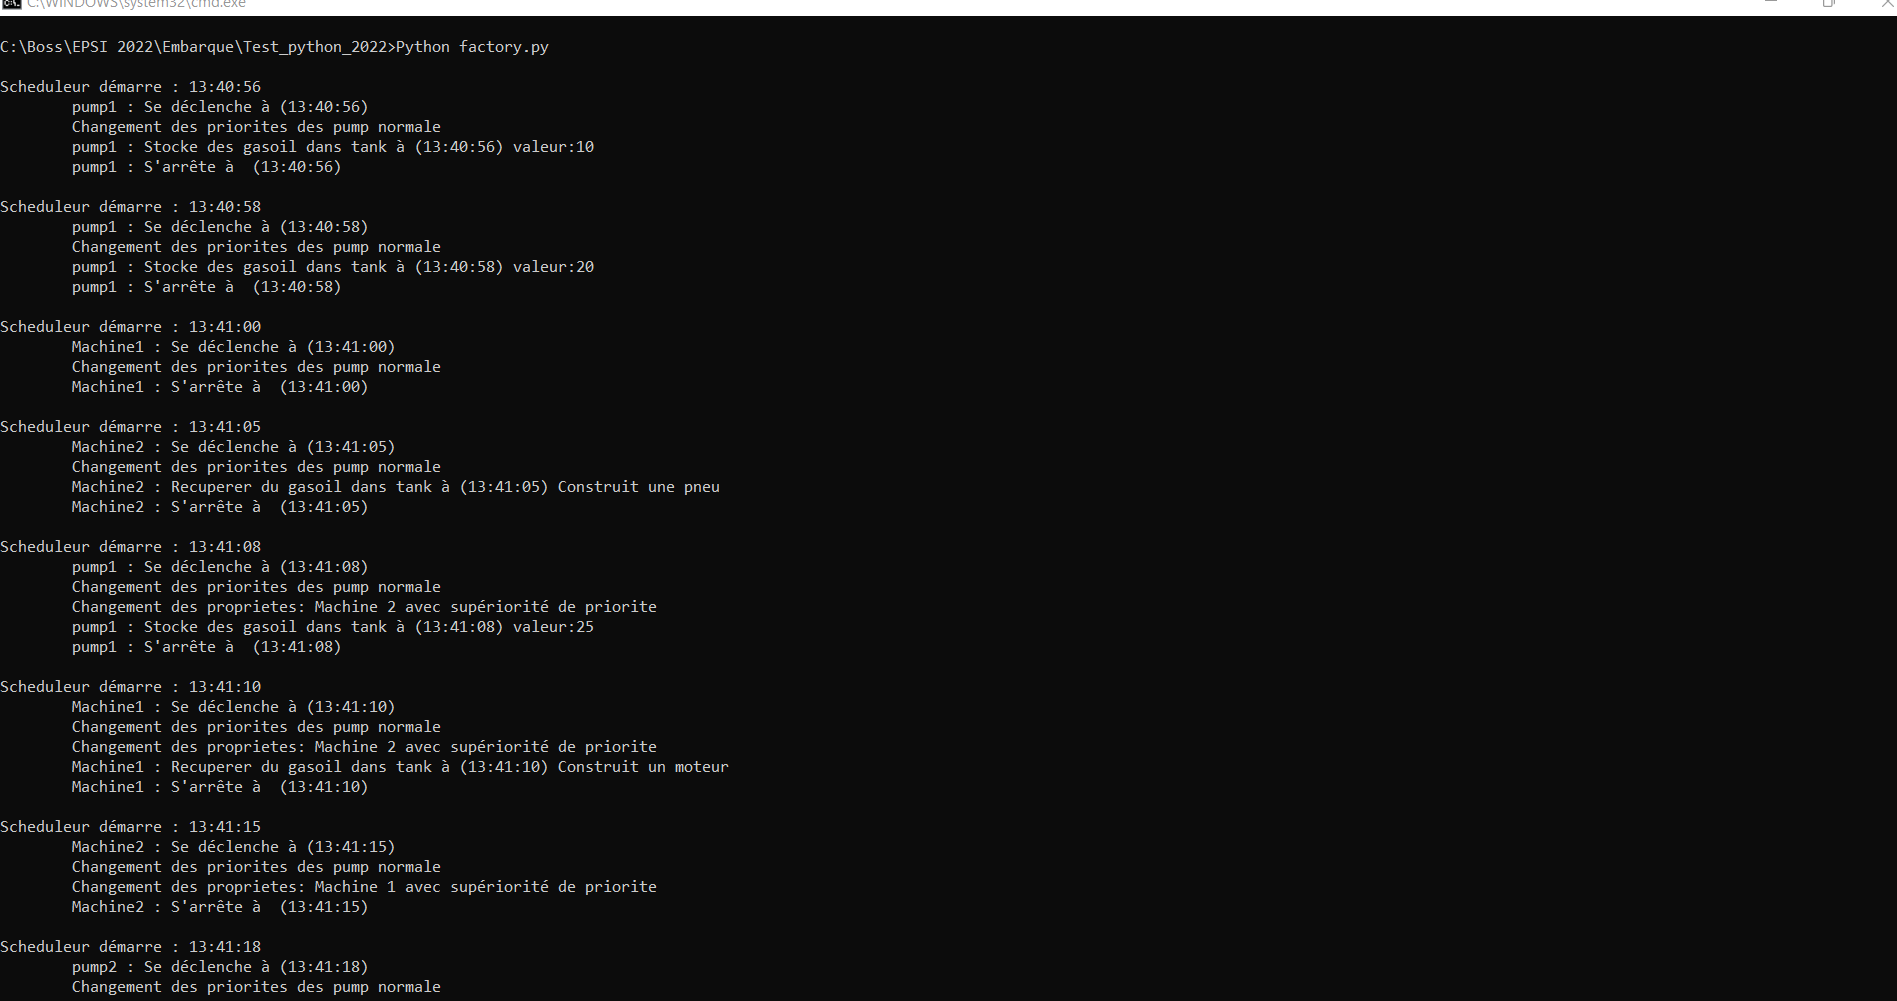
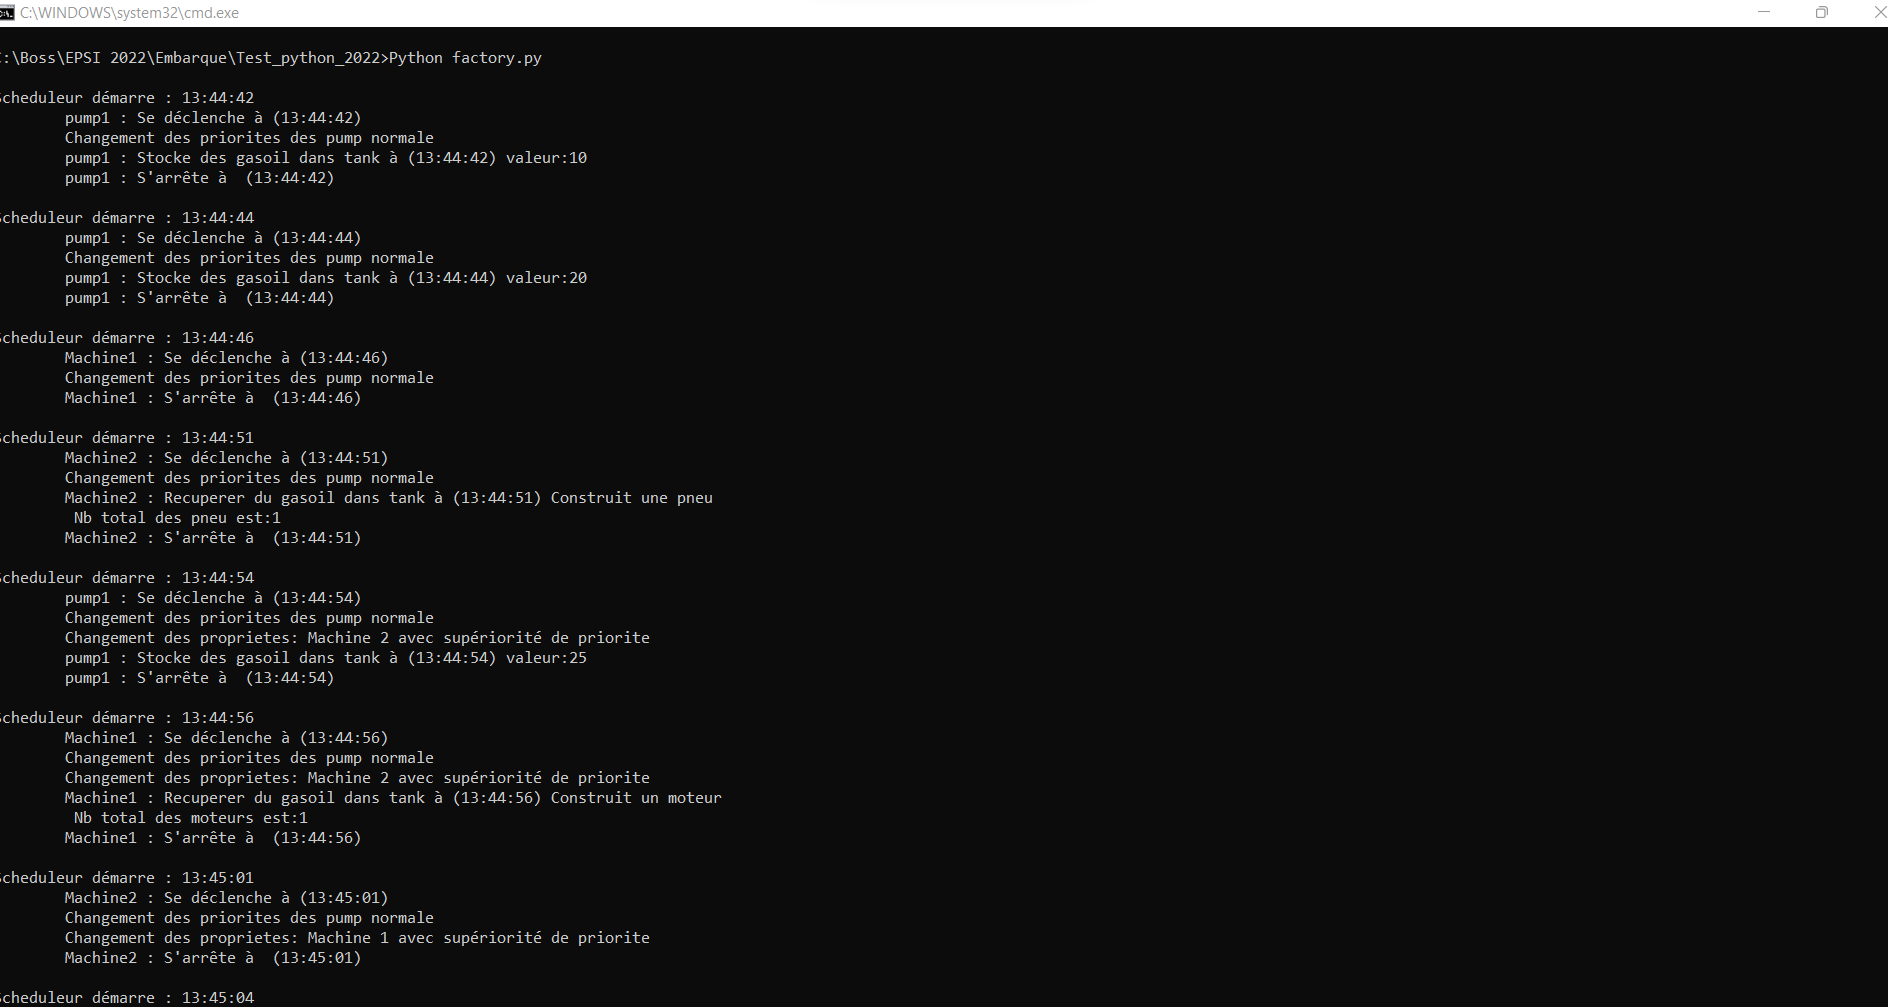
MAJ

Changed region(s): [[0.0, 0.0, 1.0, 1.0]]

diff --git a/factory.py b/factory.py
@@ -51,6 +51,7 @@ def recuperer_gasoil(task_name, fifo_name, date_register_data, fifo_variable):
                 print("\t" + task_name + " : Recuperer du gasoil dans "+ fifo_name +" à (" + date_register_data + ") Construit un moteur")
                 change_value_tank(fifo_variable,gasoil_in_tank)
                 global_stock_motors.append(1)
+                print("\t Nb total des moteurs est:" + str(sum(global_stock_motors)))
 
             
         else:
@@ -60,6 +61,7 @@ def recuperer_gasoil(task_name, fifo_name, date_register_data, fifo_variable):
                 print("\t" + task_name + " : Recuperer du gasoil dans "+ fifo_name +" à (" + date_register_data + ") Construit une pneu")
                 global_stock_wheels.append(1)
                 change_value_tank(fifo_variable,gasoil_in_tank)
+                print("\t Nb total des pneu est:" + str(sum(global_stock_wheels)))
 	
 
     
